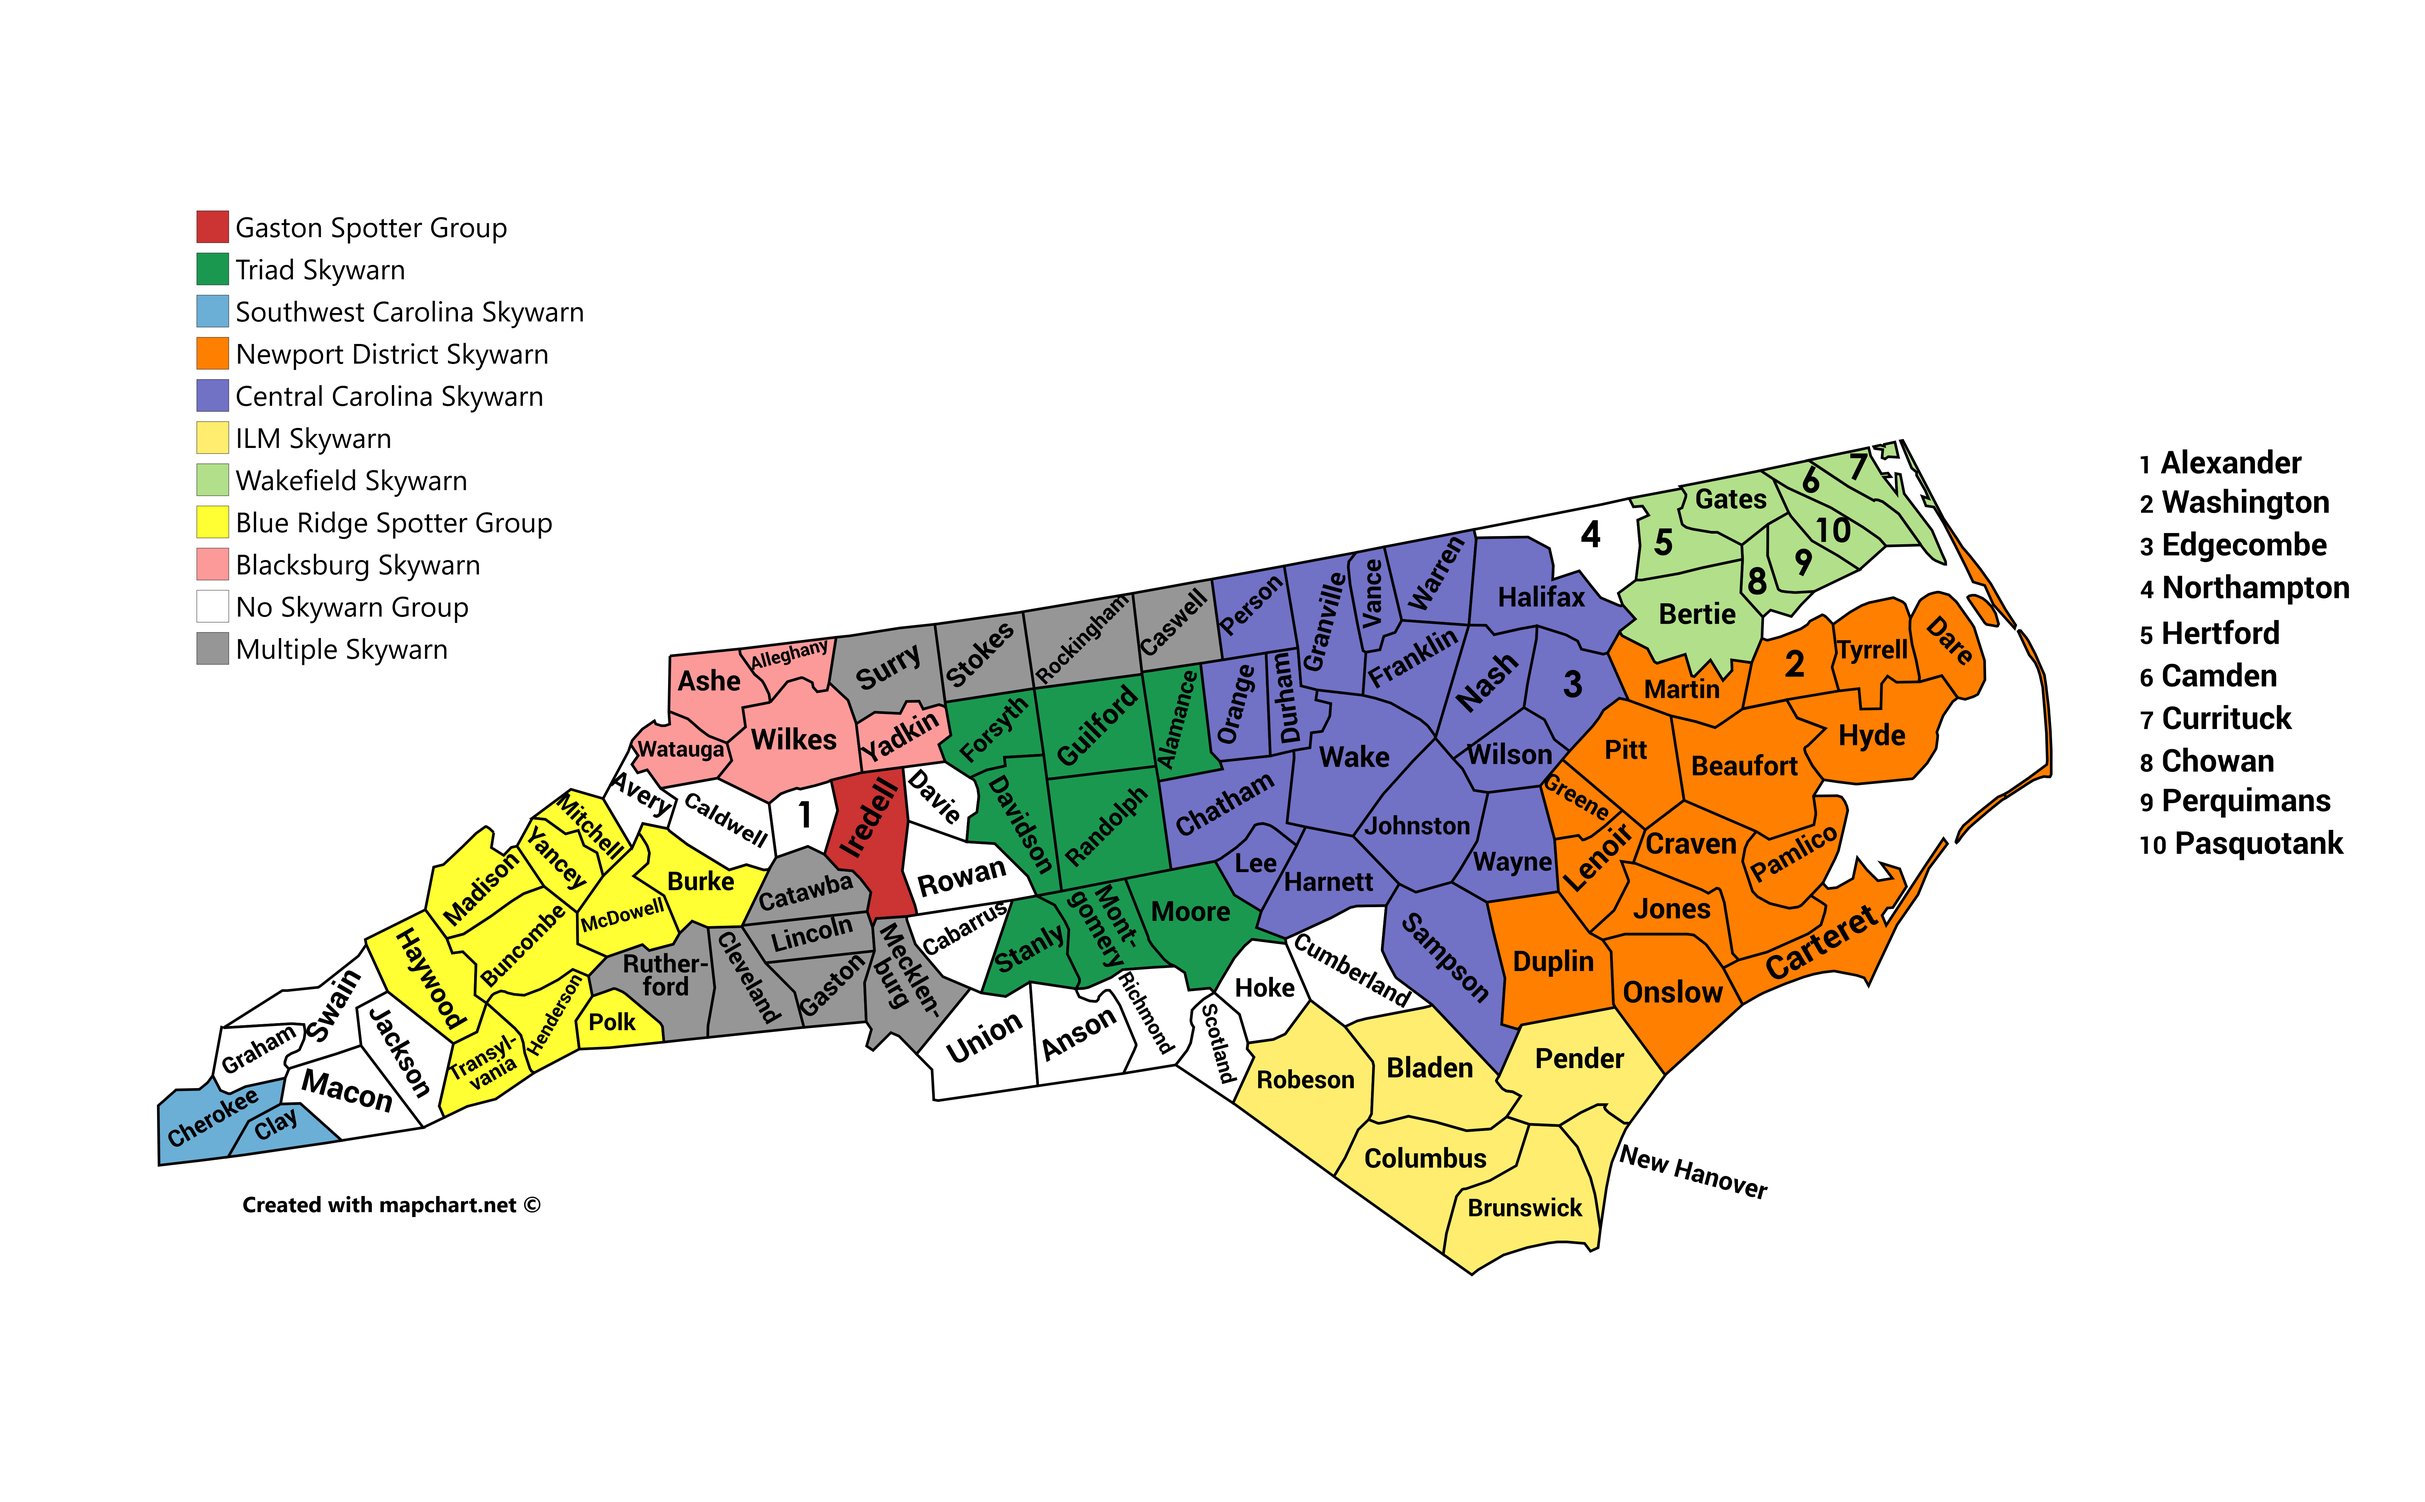
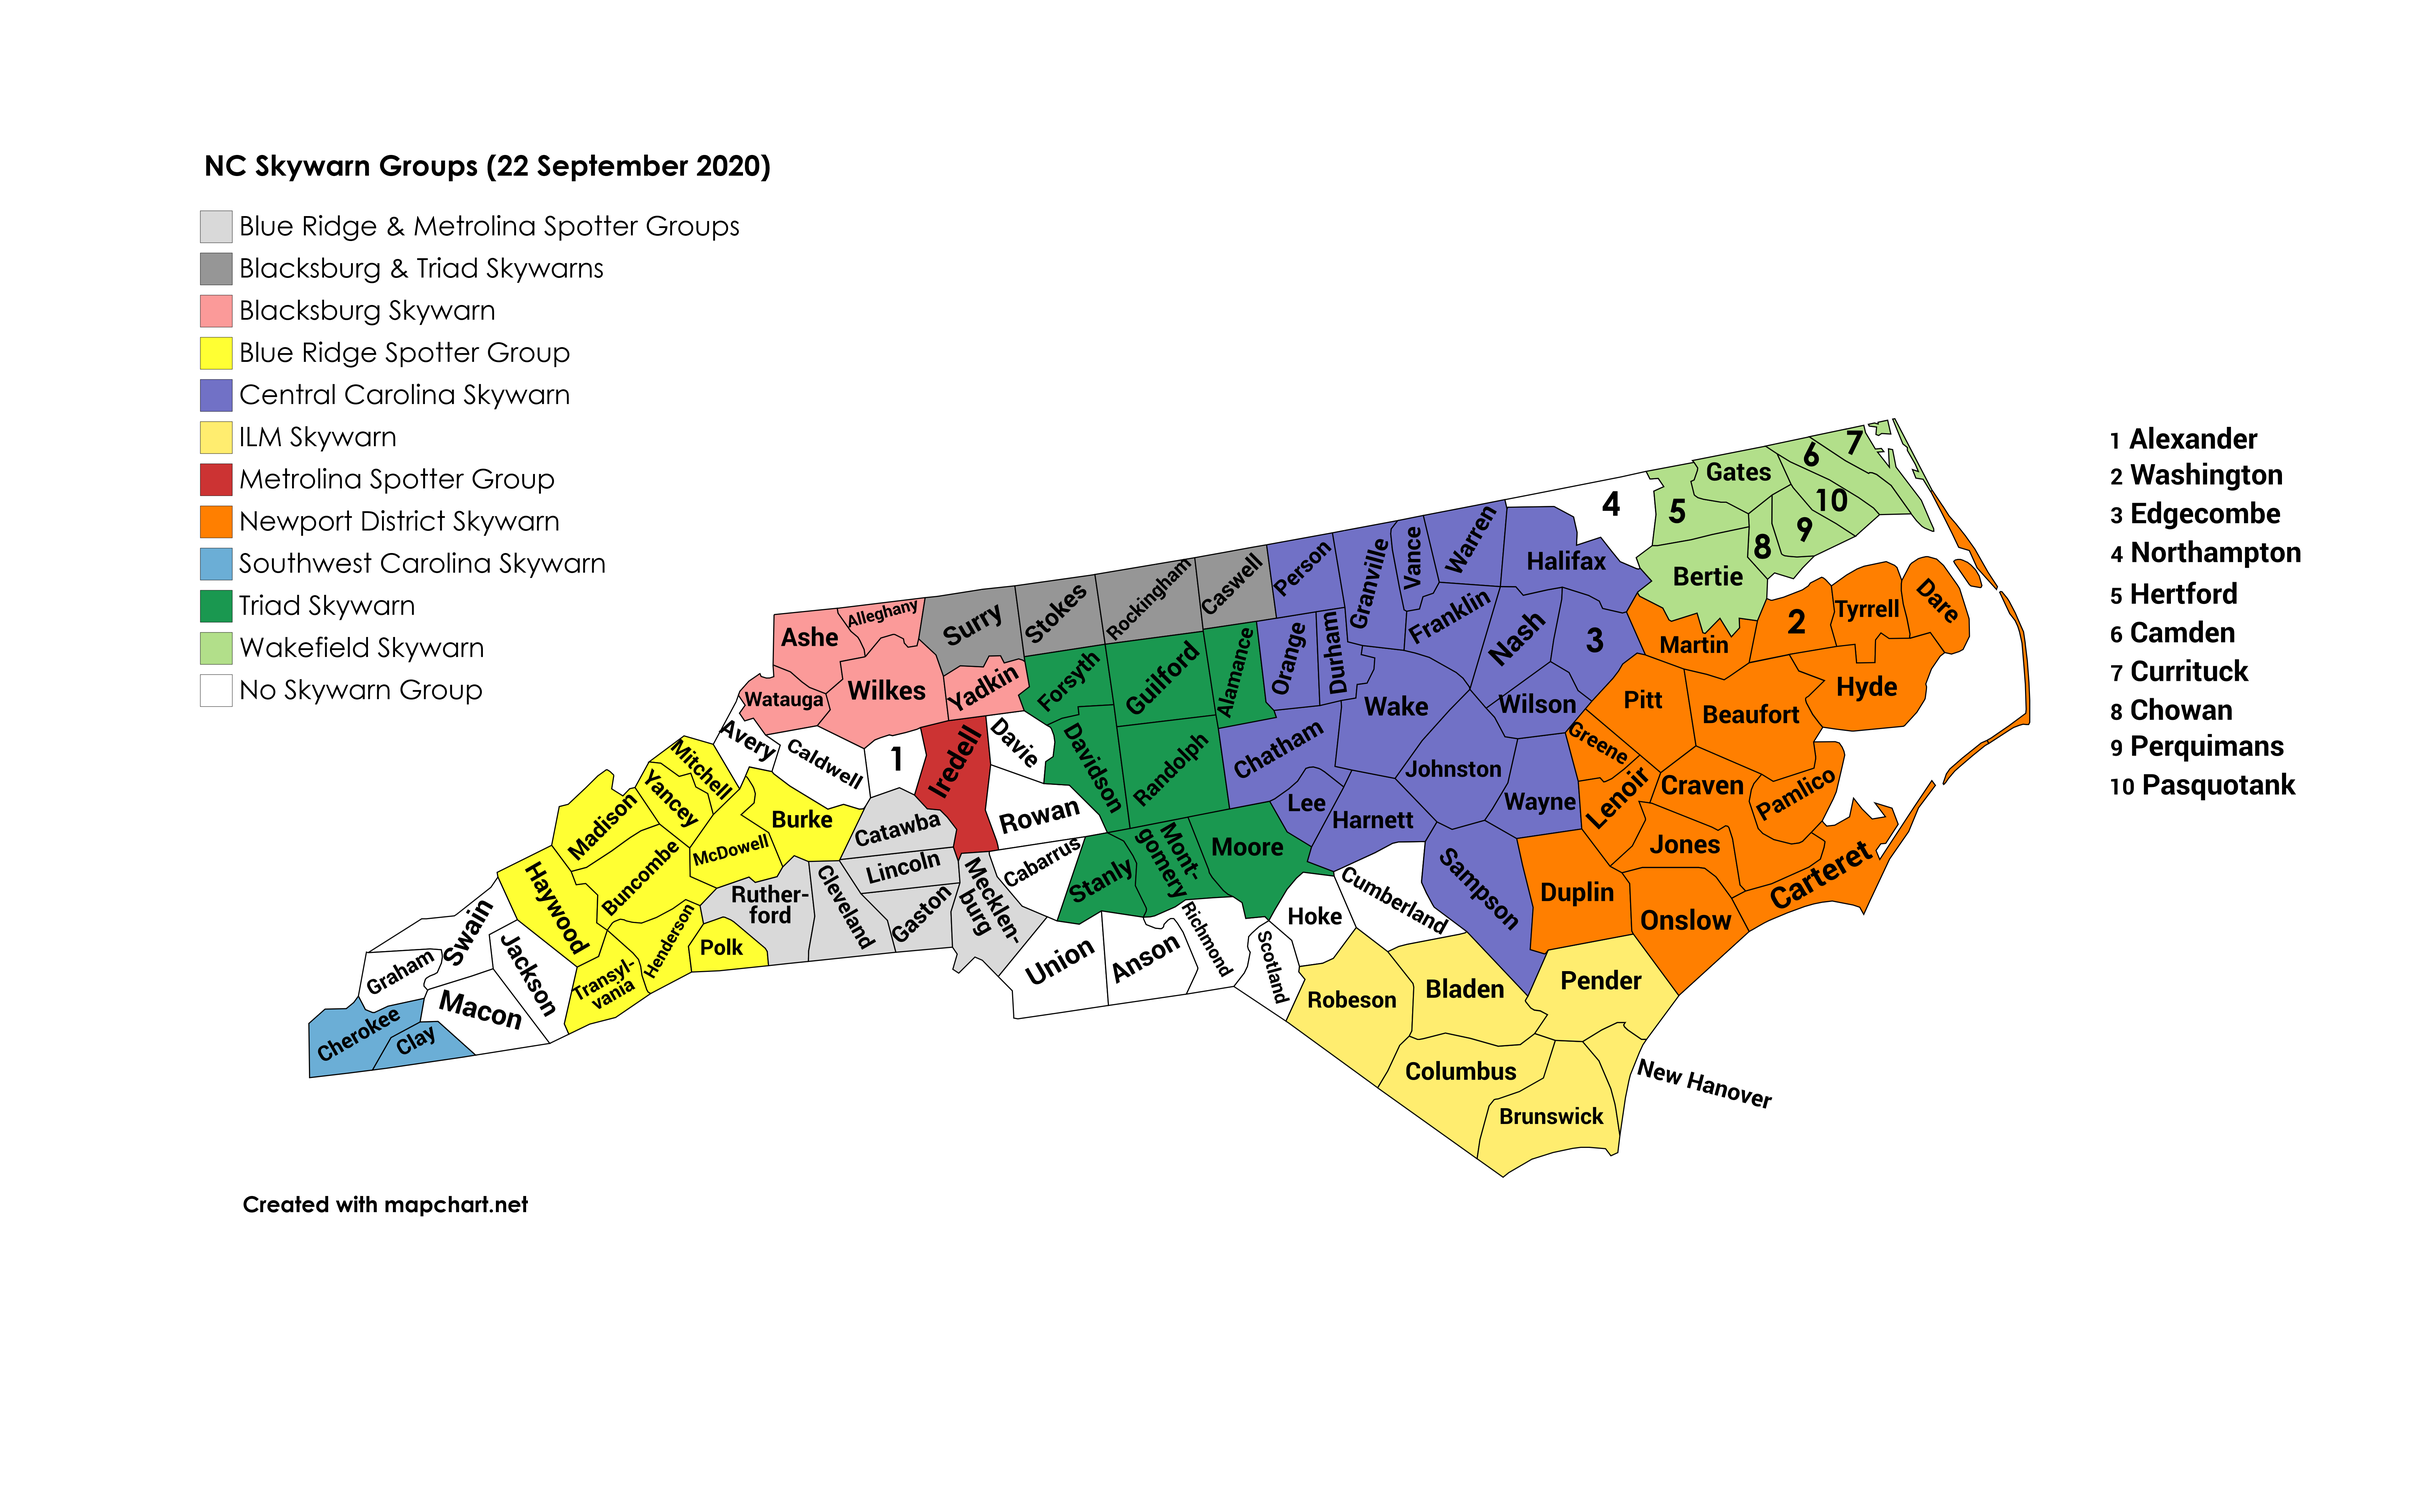
Update

Changed region(s): [[0.0623, 0.28, 0.9659, 0.84], [0.0623, 0.0933, 0.3116, 0.4667]]

diff --git a/repeater.html b/repeater.html
@@ -24,11 +24,15 @@ title:		'Repeater Information'
 	<h2>Atkins Library</h2>
 	<hr>
 	<div class="row">
-		<div class="col-6">
-			<iframe width="600" height="450" frameborder="0" style="border:0" src="https://www.google.com/maps/embed/v1/place?key=AIzaSyBdGFT-TyqFqUs3O5OHnvoIHFChd6OFqHs&q=Atkins+Library" allowfullscreen></iframe>
+		<div class="col-md-6 mb-4">
+			<div class="google-maps shadow-sm">
+				<iframe width="600" height="450" frameborder="0" style="border:0" src="https://www.google.com/maps/embed/v1/place?key=AIzaSyBdGFT-TyqFqUs3O5OHnvoIHFChd6OFqHs&q=Atkins+Library" allowfullscreen></iframe>
+			</div>
 		</div>
-		<div class="col-6">
-			<iframe width="600" height="450" frameborder="0" style="border:0" src="https://www.google.com/maps/embed/v1/view?key=AIzaSyBdGFT-TyqFqUs3O5OHnvoIHFChd6OFqHs&center=35.306049,-80.732552&zoom=20&maptype=satellite" allowfullscreen></iframe>
+		<div class="col-md-6 mb-4">
+			<div class="google-maps shadow-sm">
+				<iframe width="600" height="450" frameborder="0" style="border:0" src="https://www.google.com/maps/embed/v1/view?key=AIzaSyBdGFT-TyqFqUs3O5OHnvoIHFChd6OFqHs&center=35.306049,-80.732552&zoom=20&maptype=satellite" allowfullscreen></iframe>
+			</div>
 		</div>
 	</div>
 </div>

diff --git a/assets/css/style.css b/assets/css/style.css
@@ -98,6 +98,26 @@ footer > .copyright {
 
 
 /*******************************/
+/*         GOOGLE MAPS         */
+/*******************************/
+
+.google-maps {
+	height: 0;
+	padding-bottom: 75%;
+	position: relative;
+	overflow: hidden;
+}
+
+.google-maps iframe {
+	height: 100% !important;
+	left: 0;
+	position: absolute;
+	top: 0;
+	width: 100% !important;
+}
+
+
+/*******************************/
 /* BOOTSTRAP CARD COLUMNS FIX  */
 /*******************************/
 

diff --git a/_wikis/skywarn.md b/_wikis/skywarn.md
@@ -25,7 +25,7 @@ The Skywarn program is a collection of groups and individuals who volunteer thei
 
 [Central Carolina Skywarn](https://centralcarolinaskywarn.net){:target="_blank"} - Chatham, Durham, Edgecombe, Franklin, Granville, Halifax, Harnett, Johnston, Lee, Nash, Orange, Person, Sampson, Vance, Wake, Warren, Wayne, and Wilson.
 
-[Gaston Spotter Group](http://gastonspotters.x10.bz){:target="_blank"} - Catawba¹, Cleveland¹, Gaston¹, Iredell, Lincoln¹, Mecklenburg¹, and Rutherford¹.
+[Metrolina Spotter Group](https://metrolinaspotters.com){:target="_blank"} - Catawba¹, Cleveland¹, Gaston¹, Iredell, Lincoln¹, Mecklenburg¹, and Rutherford¹.
 
 [ILM Skywarn](http://ilm-skywarn.net/){:target="_blank"} - Bladen, Brunswick, Columbus, New Hanover, Pender, and Robeson.
 

diff --git a/_events/fieldops/event/2020-09-19-collegiate-qso-party.md b/_events/fieldops/event/2020-09-19-collegiate-qso-party.md
@@ -27,5 +27,4 @@ When you enter the park, stay on Sandy Lane SW until you pass a half burned down
 Once you enter the second parking lot, turn right onto the dirt road and follow it around to the large parking lot.
 We will be setup in the back.
 
-![]({{ site.baseurl }}/assets/img/FrankLiskePark.png){:width="100%"}
-[Original]({{ site.baseurl }}/assets/img/FrankLiskePark.png)
+[![]({{ site.baseurl }}/assets/img/FrankLiskePark.png){:width="100%"}]({{ site.baseurl }}/assets/img/FrankLiskePark.png)
